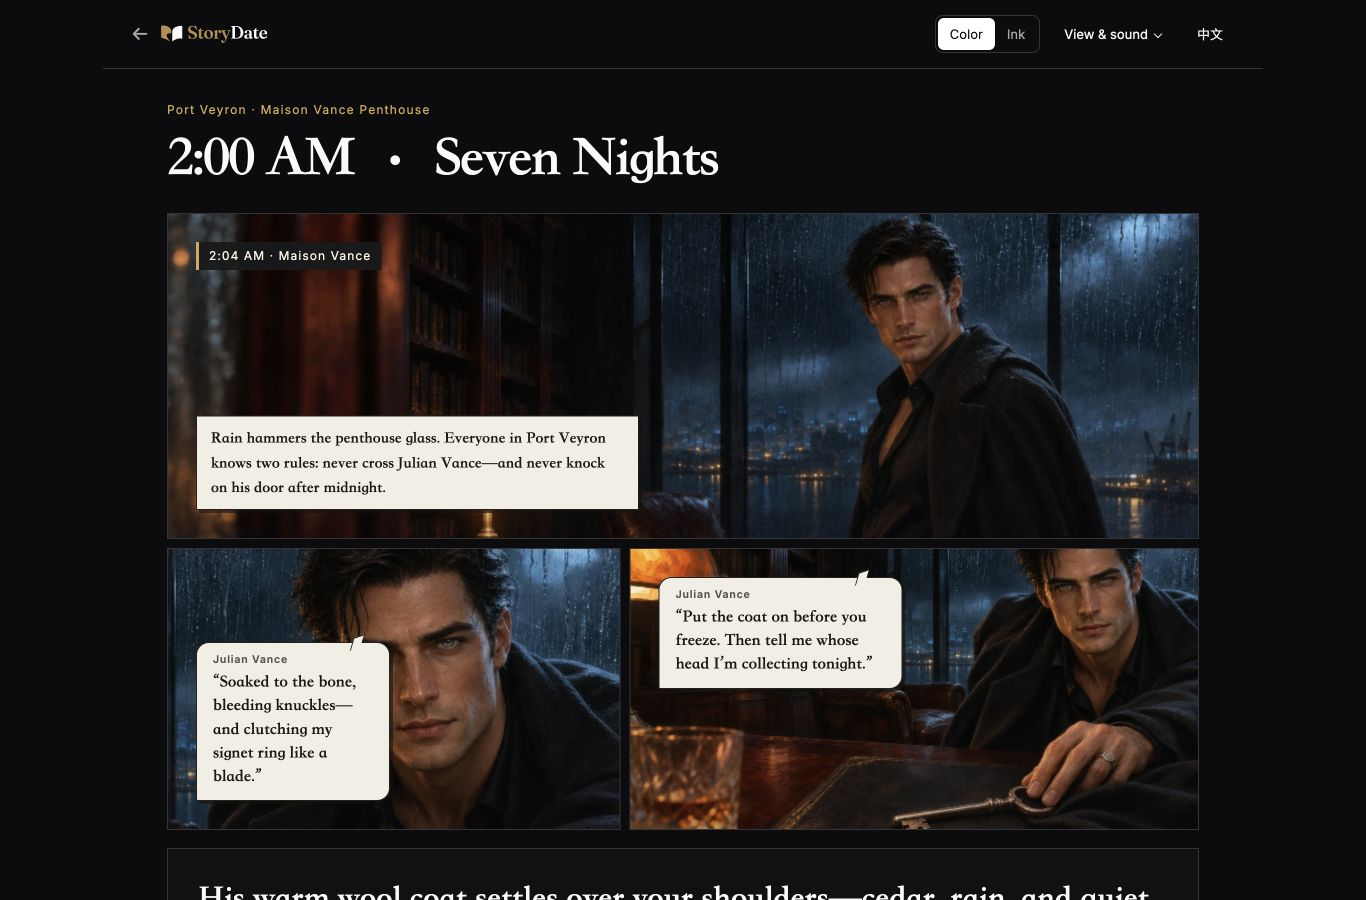
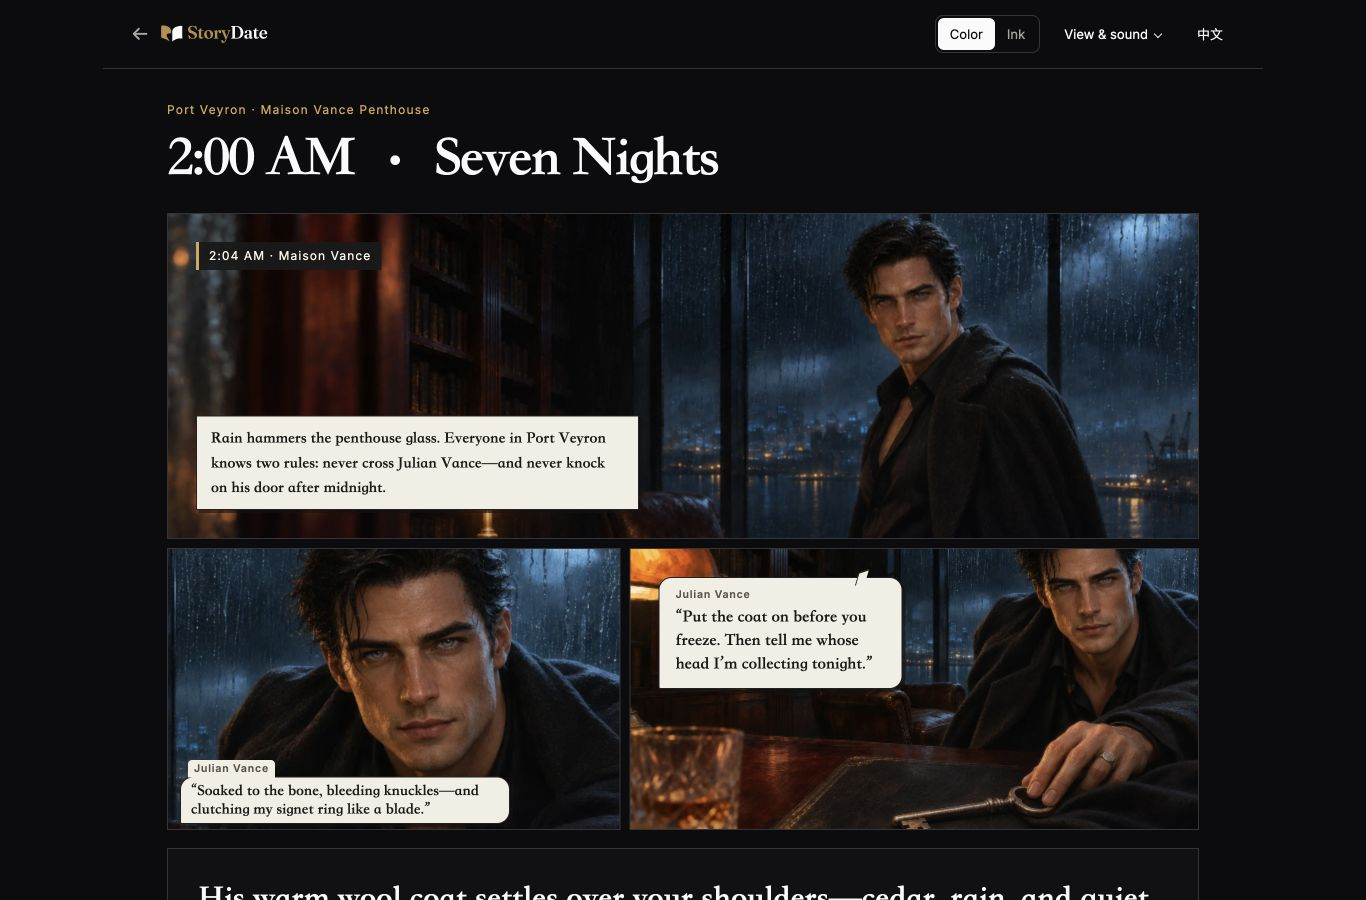
Refresh bilingual Preview screenshots for the two adjusted panels

Changed region(s): [[0.123, 0.7156, 0.3997, 0.9333]]

diff --git a/ooc-replica/docs/verification/2026-11-19-seven-nights/README.md b/ooc-replica/docs/verification/2026-11-19-seven-nights/README.md
@@ -1,6 +1,6 @@
 # Seven Nights · 第一集验收
 
-独立试播分支从 `c124d794`（#160）分出。首次进入英文试播页时优先使用读者主动保存的语言。截图取自 [Vercel 固定提交预览](https://storydate-zhou-6315i5o1v-zhou-zeyas-projects.vercel.app/pilot/seven-nights)，对应 `83b21bb`。使用 Chrome 的 1366 × 900 桌面视口和 390 × 844 手机模拟视口。手机真机传感器未纳入本轮验收。
+独立试播分支从 `c124d794`（#160）分出。首次进入英文试播页时优先使用读者主动保存的语言。首轮截图取自 [Vercel 固定提交预览](https://storydate-zhou-6315i5o1v-zhou-zeyas-projects.vercel.app/pilot/seven-nights)，对应 `83b21bb`。使用 Chrome 的 1366 × 900 桌面视口和 390 × 844 手机模拟视口。手机真机传感器未纳入本轮验收。
 
 ## 桌面与手机
 
@@ -10,6 +10,13 @@
 | 桌面 中文 | [彩漫](desktop-zh-color.jpg) | [水墨](desktop-zh-ink.jpg) | [集末](desktop-zh-decision.jpg) | [书房](desktop-zh-interlude.jpg) |
 | 手机 EN | [彩漫](mobile-en-color.jpg) | [水墨](mobile-en-ink.jpg) | [集末](mobile-en-decision.jpg) | [书房](mobile-en-interlude.jpg) |
 | 手机 中文 | [彩漫](mobile-zh-color.jpg) | [水墨](mobile-zh-ink.jpg) | [集末](mobile-zh-decision.jpg) | [书房](mobile-zh-interlude.jpg) |
+
+### 两处分镜排版复验
+
+在 [`68e8d56` 的固定 Preview](https://storydate-zhou-2bm3rgjtx-zhou-zeyas-projects.vercel.app/pilot/seven-nights) 更新了表内桌面双语彩漫、水墨开场及手机双语集末，共 6 张。其余截图沿用首轮验收。
+
+- **桌面第 2 格**　1366 × 900 下，气泡正文中英文各两行，姓名单独标在左上角。气泡贴在大衣下方，整条下颌可见。
+- **手机第 5 格**　390 × 844 下，WebGL 画布覆盖面板边框内全部 368 × 229 像素。英文对白四行，中文三行。台词与旁白之间保留侧脸和街面，两辆车可见。
 
 ## 资源与验证方法
 
